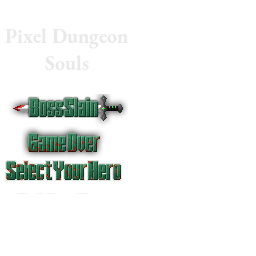
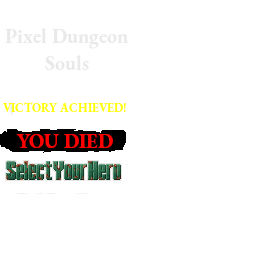
Mobs respawn on depths other than the one the player is on when they die/rest at bonfire, VICTORY ACHIEVED and YOU DIED messages from Dark Souls added.

Changed region(s): [[0.0, 0.3438, 0.5, 0.6562]]

diff --git a/core/src/main/java/com/shatteredpixel/yasd/general/Dungeon.java b/core/src/main/java/com/shatteredpixel/yasd/general/Dungeon.java
@@ -95,6 +95,7 @@ import org.jetbrains.annotations.Contract;
 
 import java.io.IOException;
 import java.util.ArrayList;
+import java.util.Arrays;
 import java.util.HashMap;
 import java.util.HashSet;
 
@@ -182,6 +183,8 @@ public class Dungeon {
 	public static int depth;
 	public static String key;
 
+	public static ArrayList<String> keysNoReset;
+
 	public static boolean underwater = false;
 	public static int gold;
 
@@ -233,6 +236,7 @@ public class Dungeon {
 		
 		depth = 1;
 		key = keyForDepth();
+		keysNoReset = new ArrayList<>();
 		underwater = false;
 
 		gold = 0;
@@ -492,36 +496,6 @@ public class Dungeon {
 		dropped.add( item );
 	}
 
-	public static boolean posNeeded() {
-		//2 POS each floor set
-		int posLeftThisSet = 2 - (LimitedDrops.STRENGTH_POTIONS.count - (depth / Constants.CHAPTER_LENGTH) * 2);
-		if (posLeftThisSet <= 0) return false;
-
-		int floorThisSet = (depth % 5);
-
-		//pos drops every two floors, (numbers 1-2, and 3-4) with a 50% chance for the earlier one each time.
-		int targetPOSLeft = 2 - floorThisSet/2;
-		if (floorThisSet % 2 == 1 && Random.Int(2) == 0) targetPOSLeft --;
-
-		return targetPOSLeft < posLeftThisSet;
-
-	}
-	
-	public static boolean souNeeded() {
-		int souLeftThisSet;
-		//3 SOU each floor set, 1.5 (rounded) on forbidden runes challenge
-		if (isChallenged(Challenges.NO_SCROLLS)){
-			return false;
-		} else {
-			souLeftThisSet = 3 - (LimitedDrops.UPGRADE_SCROLLS.count - (depth / Constants.CHAPTER_LENGTH) * Constants.SOU_PER_CHAPTER);
-		}
-		if (souLeftThisSet <= 0) return false;
-
-		int floorThisSet = (depth % 5);
-		//chance is floors left / scrolls left
-		return Random.Int(5 - floorThisSet) < souLeftThisSet;
-	}
-	
 	public static boolean esNeeded() {
 		//1 AS each floor set
 		int asLeftThisSet = 1 - (LimitedDrops.ENCHANT_STONE.count - (depth / Constants.CHAPTER_LENGTH));
@@ -567,6 +541,7 @@ public class Dungeon {
 			bundle.put( UNDERWATER, underwater );
 			bundle.put( DIFFICULTY, difficulty );
 			bundle.put( TESTING, testing );
+			bundle.put( LEVELSLOADED, keysNoReset.toArray(new String[0]) );
 
 			for (int d : droppedItems.keyArray()) {
 				bundle.put(Messages.format(DROPPED, d), droppedItems.get(d));
@@ -659,7 +634,12 @@ public class Dungeon {
 		key = bundle.contains(KEY) ? bundle.getString(KEY) : keyForDepth();
 
 		underwater = bundle.getBoolean(UNDERWATER);
-		//xPos = bundle.contains(XPOS) ? bundle.getInt(XPOS) : 0;
+
+		if (bundle.contains(LEVELSLOADED)) {
+			keysNoReset = new ArrayList<>(Arrays.asList(bundle.getStringArray(LEVELSLOADED)));
+		} else {
+			keysNoReset = new ArrayList<>();
+		}
 
 		Actor.restoreNextID( bundle );
 

diff --git a/core/src/main/java/com/shatteredpixel/yasd/general/levels/Level.java b/core/src/main/java/com/shatteredpixel/yasd/general/levels/Level.java
@@ -69,7 +69,6 @@ import com.shatteredpixel.yasd.general.items.artifacts.TalismanOfForesight;
 import com.shatteredpixel.yasd.general.items.artifacts.TimekeepersHourglass;
 import com.shatteredpixel.yasd.general.items.food.SmallRation;
 import com.shatteredpixel.yasd.general.items.potions.PotionOfLevitation;
-import com.shatteredpixel.yasd.general.items.scrolls.ScrollOfUpgrade;
 import com.shatteredpixel.yasd.general.items.stones.StoneOfEnchantment;
 import com.shatteredpixel.yasd.general.items.stones.StoneOfIntuition;
 import com.shatteredpixel.yasd.general.levels.features.Chasm;
@@ -123,7 +122,6 @@ import com.shatteredpixel.yasd.general.plants.Swiftthistle;
 import com.shatteredpixel.yasd.general.scenes.GameScene;
 import com.shatteredpixel.yasd.general.sprites.ItemSprite;
 import com.shatteredpixel.yasd.general.tiles.CustomTilemap;
-import com.shatteredpixel.yasd.general.tiles.DungeonTileSheet;
 import com.shatteredpixel.yasd.general.utils.BArray;
 import com.shatteredpixel.yasd.general.utils.GLog;
 import com.watabou.noosa.Game;
@@ -583,6 +581,7 @@ public abstract class Level implements Bundlable {
 		createAreas();
 
 		Random.popGenerator();
+		onReset();
 	}
 	
 	public void setSize(int w, int h){
@@ -617,8 +616,13 @@ public abstract class Level implements Bundlable {
 				mobs.remove( mob );
 			}
 		}
+		onReset();
 		createMobs();
 		invalidateCaches();
+	}
+
+	public void onReset() {
+		Dungeon.keysNoReset.add(this.key);
 	}
 	
 	@Override
@@ -727,6 +731,10 @@ public abstract class Level implements Bundlable {
 				heaps.remove(h.pos);
 				mobs.add(Mimic.spawnAt(h.pos, h.items, Mimic.class, this));
 			}
+		}
+
+		if (!Dungeon.keysNoReset.contains(key)) {
+			reset();
 		}
 	}
 	

diff --git a/core/src/main/java/com/shatteredpixel/yasd/general/actors/hero/Hero.java b/core/src/main/java/com/shatteredpixel/yasd/general/actors/hero/Hero.java
@@ -111,6 +111,7 @@ import com.shatteredpixel.yasd.general.windows.WndTradeItem;
 import com.watabou.noosa.Camera;
 import com.watabou.noosa.Game;
 import com.watabou.noosa.audio.Sample;
+import com.watabou.noosa.tweeners.Delayer;
 import com.watabou.utils.Bundle;
 import com.watabou.utils.Callback;
 import com.watabou.utils.PathFinder;
@@ -1316,10 +1317,19 @@ public class Hero extends Char {
 		if (cause.getCause() instanceof Hero.Doom) {
 			((Hero.Doom)cause.getCause()).onDeath();
 		}
-		PDSGame.runOnRenderThread(new Callback() {
+
+		//Delay the restart prompt for effect
+		PDSGame.scene().add(new Delayer(2f) {
 			@Override
-			public void call() {
-				PDSGame.scene().addToFront(new WndRetry());
+			protected void updateValues(float progress) {
+				if (progress >= 1f) {
+					PDSGame.runOnRenderThread(new Callback() {
+						@Override
+						public void call() {
+							PDSGame.scene().addToFront(new WndRetry());
+						}
+					});
+				}
 			}
 		});
 	}

diff --git a/core/src/main/java/com/shatteredpixel/yasd/general/levels/RegularLevel.java b/core/src/main/java/com/shatteredpixel/yasd/general/levels/RegularLevel.java
@@ -469,8 +469,6 @@ public abstract class RegularLevel extends Level {
 	@SuppressWarnings("unchecked")
 	@Override
 	public void restoreFromBundle( Bundle bundle ) {
-		super.restoreFromBundle( bundle );
-		
 		rooms = new ArrayList<>( (Collection<Room>) ((Collection<?>) bundle.getCollection( "rooms" )) );
 		for (Room r : rooms) {
 			r.onLevelLoad( this );
@@ -480,6 +478,7 @@ public abstract class RegularLevel extends Level {
 				roomExit = r;
 			}
 		}
+		super.restoreFromBundle( bundle );
 	}
 	
 }

diff --git a/core/src/main/java/com/shatteredpixel/yasd/general/actors/mobs/npcs/Bonfire.java b/core/src/main/java/com/shatteredpixel/yasd/general/actors/mobs/npcs/Bonfire.java
@@ -74,6 +74,7 @@ public class Bonfire extends NPC {
                 Actor.fixTime();
                 Actor.clear();
                 Dungeon.level.reset();
+                Dungeon.keysNoReset.clear();
                 Actor.init();
                 light();
                 Statistics.lastBonfireDepth = Dungeon.depth;

diff --git a/core/src/main/java/com/shatteredpixel/yasd/general/levels/SewerBossLevel.java b/core/src/main/java/com/shatteredpixel/yasd/general/levels/SewerBossLevel.java
@@ -210,8 +210,8 @@ public class SewerBossLevel extends SewerLevel {
 	
 	@Override
 	public void restoreFromBundle( Bundle bundle ) {
-		super.restoreFromBundle( bundle );
 		stairs = (Entrance) bundle.get( STAIRS );
 		roomExit = roomEntrance;
+		super.restoreFromBundle( bundle );
 	}
 }

diff --git a/core/src/main/java/com/shatteredpixel/yasd/general/windows/WndRetry.java b/core/src/main/java/com/shatteredpixel/yasd/general/windows/WndRetry.java
@@ -21,6 +21,7 @@ public class WndRetry extends Window {
         Dungeon.hero.updateHT(false);
         Dungeon.hero.HP = Dungeon.hero.HT;
         Dungeon.hero.live();
+        Dungeon.keysNoReset.clear();
     }
 
     public WndRetry() {
